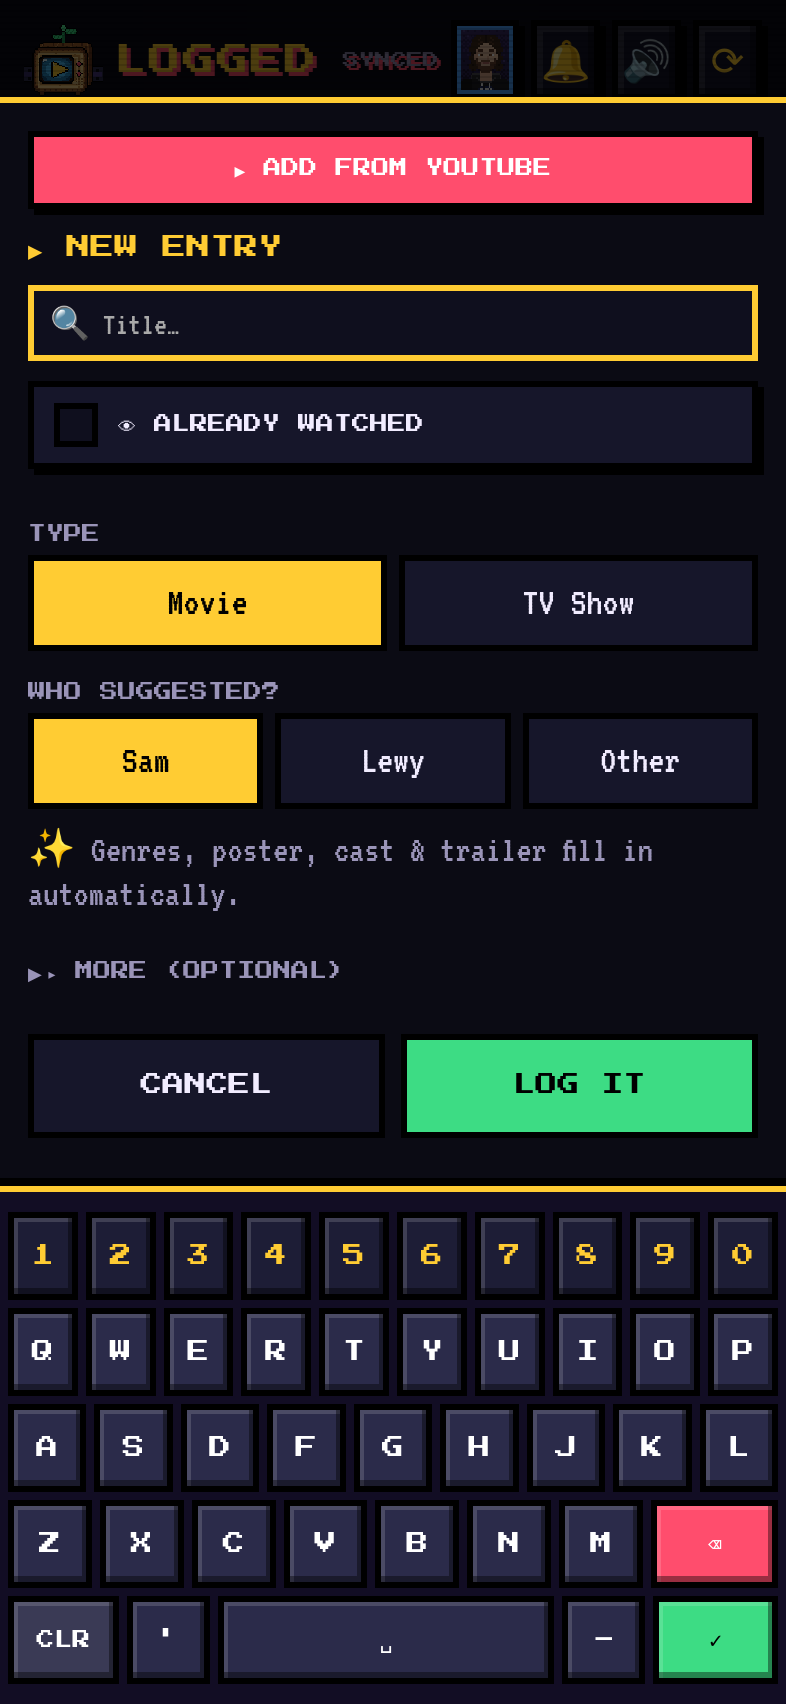
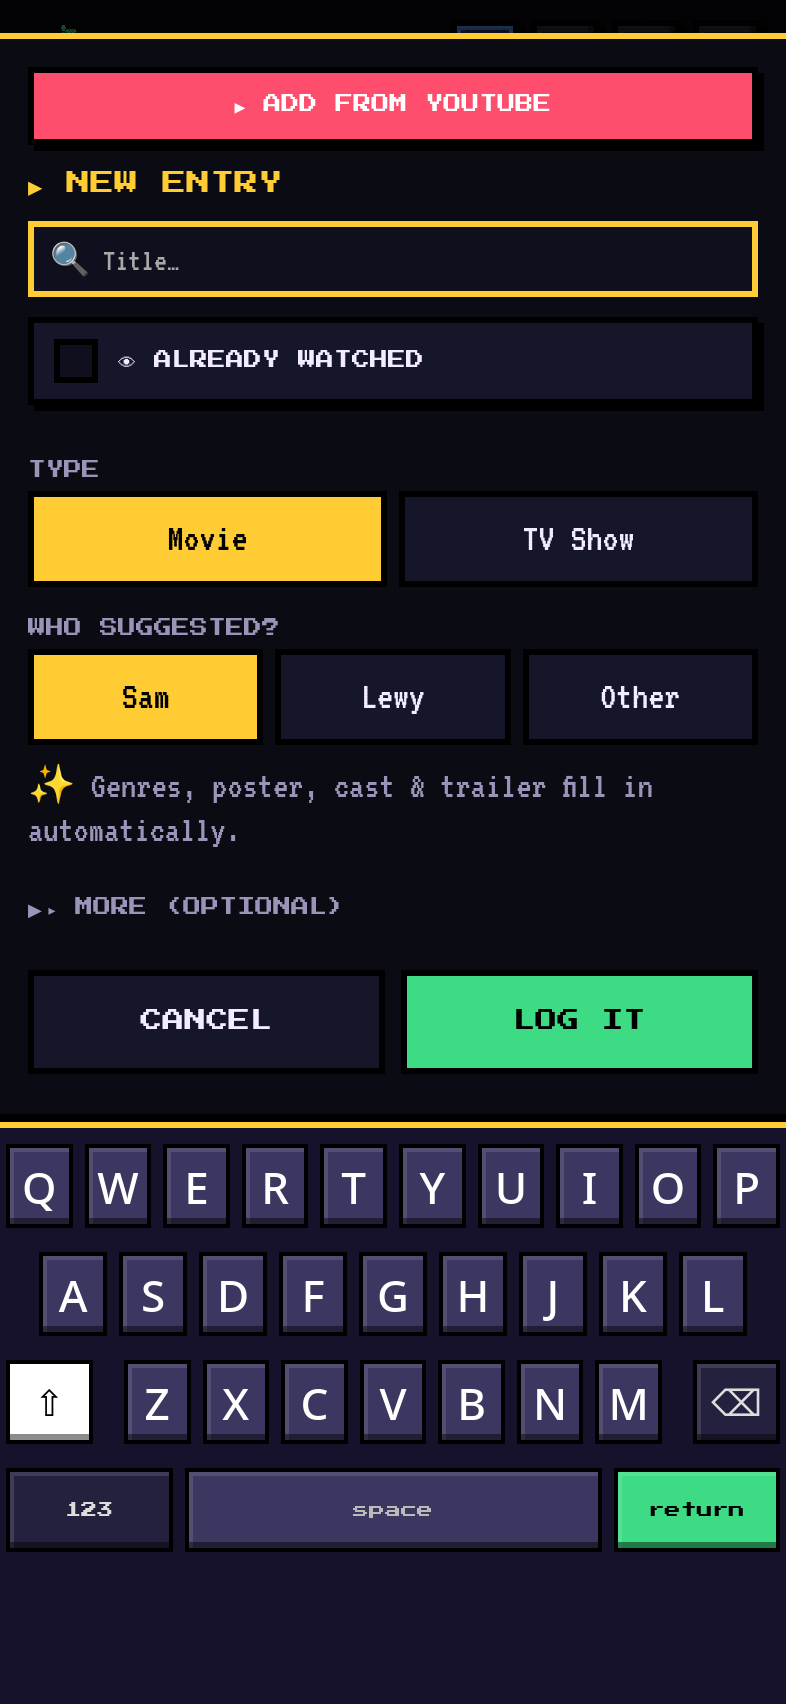
r72: 8-bit keyboard with iPhone size/layout: shift/caps, 123/#+=, popups, hold delete, movable caret, clear button

diff --git a/app/index.html b/app/index.html
@@ -1567,6 +1567,25 @@ nav#nav.nav58 #navLogM.gold58:not(.on){background:#1d1a30;color:#ffcc33;box-shad
 #lfc70 .lfc{position:absolute;left:10px;right:10px;top:12%;background:#15132a;border:4px solid #d51007;box-shadow:4px 4px 0 #000;padding:14px}
 #lfc70 h3{font:11px var(--pix);color:#fff;margin:0 0 8px}#lfc70 p{font-size:12px;color:var(--dim,#aaa);margin:0 0 10px}
 #lfc70 .lfb{display:flex;gap:8px;margin-top:10px}#lfc70 .lfb .ui-btn{flex:1;min-height:44px}#lfc70 .lfe{color:#ff6b6b;font:7px var(--pix);margin:8px 0 0}
+/* R72: iPhone keyboard metrics (iPhone 13 portrait ≈ 291px incl. bottom area): 42px keys, 12px row gap, 6px key gap, 3px side inset */
+#kb.kb72{padding:8px 3px max(76px,calc(42px + env(safe-area-inset-bottom)));background:#16122b;border-top:3px solid var(--gold);box-shadow:0 -4px 0 #000;box-sizing:border-box;user-select:none;-webkit-user-select:none;touch-action:manipulation}
+#kb.kb72 .kr72{display:flex;gap:6px;margin:0 auto 12px;max-width:560px;justify-content:center}
+#kb.kb72 .kr72.bot{margin-bottom:0}
+#kb.kb72 .kr72.in{padding:0 calc((100% - 54px) / 20)}
+#kb.kb72 button{flex:0 0 calc((100% - 54px) / 10);height:42px;min-width:0;padding:0;margin:0;background:#3b3760;color:#fff;border:2px solid #000;border-radius:0;box-shadow:inset 0 -3px 0 rgba(0,0,0,.45),inset 2px 2px 0 rgba(255,255,255,.12);font:500 22px -apple-system,system-ui,sans-serif;display:flex;align-items:center;justify-content:center}
+#kb.kb72 .kr72.in button{flex-basis:calc((100% - 48px) / 9)}
+#kb.kb72 .fn{background:#24213f;font:8px var(--pix);color:#ddd}
+#kb.kb72 .sh,#kb.kb72 .bs{flex:0 0 calc((100% - 54px) / 10 * 1.3);font-size:18px;font-family:-apple-system,system-ui,sans-serif}
+#kb.kb72 .kr72:not(.sym) .sh{margin-right:auto}#kb.kb72 .kr72:not(.sym) .bs{margin-left:auto}
+#kb.kb72 .kr72.sym button.ch{flex-basis:calc((100% - 54px) / 10 * 1.35)}
+#kb.kb72 .sh.on,#kb.kb72 .sh.caps{background:#fff;color:#000}#kb.kb72 .sh.caps{box-shadow:inset 0 -4px 0 var(--gold)}
+#kb.kb72 .pg{flex:0 0 calc((100% - 54px) / 10 * 2.5)}#kb.kb72 .ret{flex:0 0 calc((100% - 54px) / 10 * 2.5);background:var(--grn);color:#000}
+#kb.kb72 .spc{flex:1 1 auto;font:8px var(--pix);color:#bbb}
+#kb.kb72 button.dn{background:var(--gold);color:#000;box-shadow:none;transform:translateY(1px)}
+#kb.kb72 .pop72{display:none;position:absolute;transform:translate(-50%,-100%);height:56px;margin-top:-4px;align-items:center;justify-content:center;background:#fff;color:#000;border:3px solid #000;box-shadow:3px 3px 0 #000;font:500 32px -apple-system,system-ui,sans-serif;pointer-events:none;z-index:2}
+.car72{position:fixed;z-index:2960;width:2px;background:#4da3ff;display:none;pointer-events:none;animation:car72 1s steps(1) infinite}
+@keyframes car72{50%{opacity:0}}
+.clr72{position:fixed;z-index:2960;width:26px;height:26px;display:none;align-items:center;justify-content:center;background:#555;color:#fff;border:2px solid #000;border-radius:50%;font:12px system-ui;padding:0}
 </style></head><body>
 <div id="splash" aria-label="Logged"></div>
 <header><div class="hin">
@@ -6673,6 +6692,72 @@ setInterval(function () { try { var k = document.getElementById('kb'); if (!k ||
     if (t.dataset.lfc) sheet(); else if (t.dataset.lfx) setU(''); else if (t.dataset.lfcx) close();
     else { var v = String($('lfm70u').value || '').trim(); if (!/^[\w.\-]{2,40}$/.test(v)) { $('lfe70').textContent = 'Type your Last.fm username'; return; } $('lfe70').textContent = 'Saving…'; setU(v, close); } }, true);
   document.addEventListener('keydown', function (e) { if (e.target && e.target.id === 'lfm70u' && e.key === 'Enter') { var b = document.querySelector('[data-lfsave]'); b && b.click(); } }, true);
+})();
+
+/* ===== R72: 8-bit keyboard rebuilt to iPhone size/layout/feel: QWERTY 10/9/7 + shift/delete, 123 · space · return,
+   123 and #+= symbol pages, shift + caps lock (double-tap), sentence auto-capitalise, key popups, hold-to-repeat delete,
+   tap tick + haptic, a real caret you can move by tapping the text, edits at the caret, and a ✕ clear button in the field. ===== */
+(function () {
+  var old = $('kb'); if (!old) return; var K = old.cloneNode(false); old.parentNode.replaceChild(K, old); /* drop the old key listeners */
+  K.classList.add('kb72');
+  var L = { abc: ['qwertyuiop', 'asdfghjkl', 'zxcvbnm'], n: ['1234567890', '-/:;()$&@"', '.,?!\''], s: ['[]{}#%^*+=', '_\\|~<>€£¥•', '.,?!\''] };
+  var S = { page: 'abc', shift: false, caps: false, lastShift: 0 };
+  var key = function (k, lab, cls) { return '<button type="button" data-k72="' + esc(k) + '" class="' + (cls || '') + '" data-nosfx="1">' + lab + '</button>'; };
+  function draw() { var P = L[S.page], up = S.shift || S.caps, h = '';
+    h += '<div class="kr72">' + P[0].split('').map(function (c) { var d = S.page === 'abc' && up ? c.toUpperCase() : c; return key(d, esc(d), 'ch'); }).join('') + '</div>';
+    h += '<div class="kr72' + (S.page === 'abc' ? ' in' : '') + '">' + P[1].split('').map(function (c) { var d = S.page === 'abc' && up ? c.toUpperCase() : c; return key(d, esc(d), 'ch'); }).join('') + '</div>';
+    var left = S.page === 'abc' ? key('SHIFT', S.caps ? '⇪' : '⇧', 'fn sh' + (S.caps ? ' caps' : S.shift ? ' on' : '')) : key(S.page === 'n' ? 'PG:s' : 'PG:n', S.page === 'n' ? '#+=' : '123', 'fn sh');
+    h += '<div class="kr72' + (S.page === 'abc' ? '' : ' sym') + '">' + left + P[2].split('').map(function (c) { var d = S.page === 'abc' && up ? c.toUpperCase() : c; return key(d, esc(d), 'ch'); }).join('') + key('BS', '⌫', 'fn bs') + '</div>';
+    h += '<div class="kr72 bot">' + key(S.page === 'abc' ? 'PG:n' : 'PG:abc', S.page === 'abc' ? '123' : 'ABC', 'fn pg') + key(' ', 'space', 'spc') + key('OK', 'return', 'fn ret') + '</div><div class="pop72" aria-hidden="true"></div>';
+    K.innerHTML = h; }
+  /* caret + clear overlays */
+  var C = document.createElement('i'); C.className = 'car72'; document.body.appendChild(C);
+  var X = document.createElement('button'); X.type = 'button'; X.className = 'clr72 qx'; X.setAttribute('aria-label', 'Clear text'); X.textContent = '✕'; X.dataset.nosfx = '1'; document.body.appendChild(X);
+  var cv = document.createElement('canvas').getContext('2d');
+  var tw = function (el, s) { var cs = getComputedStyle(el); cv.font = cs.fontStyle + ' ' + cs.fontWeight + ' ' + cs.fontSize + ' ' + cs.fontFamily; return cv.measureText(s).width + (parseFloat(cs.letterSpacing) || 0) * s.length; };
+  var pos = function (el) { var v = el.value || ''; if (el.__p72 == null || el.__p72 > v.length) el.__p72 = v.length; return el.__p72; };
+  function paintCaret() { var el = KB.target; if (!el || !K.classList.contains('on') || !el.isConnected) { C.style.display = X.style.display = 'none'; return; }
+    var r = el.getBoundingClientRect(), cs = getComputedStyle(el); if (!r.width) { C.style.display = X.style.display = 'none'; return; }
+    var padL = parseFloat(cs.paddingLeft) + parseFloat(cs.borderLeftWidth), padR = parseFloat(cs.paddingRight) + parseFloat(cs.borderRightWidth) + 30, inner = r.width - padL - padR;
+    var x = tw(el, (el.value || '').slice(0, pos(el))); if (x - el.scrollLeft > inner) el.scrollLeft = x - inner + 2; else if (x < el.scrollLeft) el.scrollLeft = Math.max(0, x - 4);
+    var fs = parseFloat(cs.fontSize) || 16, ta = cs.textAlign === 'center' ? (inner - tw(el, el.value || '')) / 2 : 0;
+    C.style.display = 'block'; C.style.left = Math.round(r.left + padL + ta + x - el.scrollLeft) + 'px'; C.style.top = Math.round(r.top + (r.height - fs * 1.25) / 2) + 'px'; C.style.height = Math.round(fs * 1.25) + 'px';
+    var own = el.id === 'q' || (el.parentNode && el.parentNode.querySelector('.qx:not(.clr72)'));
+    X.style.display = el.value && !own ? 'flex' : 'none'; X.style.left = Math.round(r.right - 38) + 'px'; X.style.top = Math.round(r.top + r.height / 2 - 13) + 'px'; }
+  setInterval(paintCaret, 250); window.addEventListener('resize', paintCaret); document.addEventListener('scroll', paintCaret, true);
+  var fire = function (el) { if (el.oninput) el.oninput(); else el.dispatchEvent(new Event('input', { bubbles: true })); };
+  var autoCap = function (el) { if (S.caps || S.page !== 'abc') return; var b = (el.value || '').slice(0, pos(el)); var on = !b.length || /[.!?]\s+$/.test(b); if (on !== S.shift) { S.shift = on; draw(); } };
+  function ins(el, ch) { var v = el.value || '', p = pos(el); if (v.length >= 120) return; el.value = v.slice(0, p) + ch + v.slice(p); el.__p72 = p + ch.length; fire(el); }
+  function del(el) { var v = el.value || '', p = pos(el); if (!p) return false; el.value = v.slice(0, p - 1) + v.slice(p); el.__p72 = p - 1; fire(el); return true; }
+  var tick = function (hi) { try { if (!muted && typeof tone === 'function') tone(hi ? 1400 : 900, .018, 'square', .012); } catch (e) {} try { navigator.vibrate && navigator.vibrate(6); } catch (e) {} };
+  /* kbKey: physical keys + any caller still use it; OK keeps the existing chain (change/Enter/close) */
+  var _kk = kbKey; kbKey = function (k, raw) { var el = KB.target; if (!el) return; if (k === 'OK') return _kk.apply(this, arguments);
+    if (k === 'BS') del(el); else if (k === 'CLR') { el.value = ''; el.__p72 = 0; fire(el); } else ins(el, raw ? k : k); autoCap(el); paintCaret(); };
+  var _ko = kbOpen; kbOpen = function (el) { var r = _ko.apply(this, arguments); el.__p72 = (el.value || '').length; S.page = 'abc'; S.caps = false; S.shift = false; draw(); autoCap(el);
+    document.documentElement.style.setProperty('--kbh', K.offsetHeight + 'px'); paintCaret(); return r; };
+  var _kc = kbClose; kbClose = function () { var r = _kc.apply(this, arguments); paintCaret(); return r; };
+  /* keys: popup on touch-down, letters commit on release (like iOS); delete repeats while held */
+  var rep = 0, rept = 0, down = null;
+  var pop = function (b) { var P = K.querySelector('.pop72'); if (!P) return; if (!b) { P.style.display = 'none'; return; } var r = b.getBoundingClientRect(), kr = K.getBoundingClientRect(); P.textContent = b.textContent; P.style.display = 'flex'; P.style.left = (r.left - kr.left + r.width / 2) + 'px'; P.style.top = (r.top - kr.top) + 'px'; P.style.width = (r.width + 20) + 'px'; };
+  var stopRep = function () { clearTimeout(rept); clearInterval(rep); rep = rept = 0; };
+  K.addEventListener('pointerdown', function (e) { e.preventDefault(); var b = e.target.closest('[data-k72]'), el = KB.target; if (!b || !el) return; var k = b.dataset.k72; b.classList.add('dn'); down = b;
+    if (b.classList.contains('ch') || k === ' ') { if (k !== ' ') pop(b); return; }
+    tick(true);
+    if (k === 'BS') { del(el); autoCap(el); paintCaret(); rept = setTimeout(function () { rep = setInterval(function () { if (!KB.target || !del(KB.target)) stopRep(); paintCaret(); }, 70); }, 450); return; }
+    if (k === 'SHIFT') { var t = Date.now(); if (t - S.lastShift < 320 && !S.caps) { S.caps = true; S.shift = true; } else if (S.caps) { S.caps = false; S.shift = false; } else S.shift = !S.shift; S.lastShift = t; draw(); return; }
+    if (k.indexOf('PG:') === 0) { S.page = k.slice(3); draw(); return; }
+    if (k === 'OK') { kbKey('OK'); } });
+  var up = function (e) { stopRep(); pop(null); var b = down; down = null; if (!b) return; b.classList.remove('dn'); var el = KB.target; if (!el || !b.isConnected) return; var k = b.dataset.k72;
+    if (e && e.type === 'pointercancel') return;
+    if (b.classList.contains('ch') || k === ' ') { tick(); ins(el, k); if (S.shift && !S.caps && S.page === 'abc') { S.shift = false; draw(); }
+      if (k === ' ' && S.page !== 'abc') { S.page = 'abc'; draw(); } if (k === '\'' && S.page !== 'abc') { S.page = 'abc'; draw(); } autoCap(el); paintCaret(); } };
+  window.addEventListener('pointerup', up, true); window.addEventListener('pointercancel', up, true);
+  /* tap in the text to move the caret */
+  document.addEventListener('pointerdown', function (e) { var el = KB.target; if (!el || e.target !== el) return; var r = el.getBoundingClientRect(), cs = getComputedStyle(el), v = el.value || '';
+    var x = e.clientX - r.left - parseFloat(cs.paddingLeft) - parseFloat(cs.borderLeftWidth) + el.scrollLeft, best = v.length, bd = 1e9;
+    for (var i = 0; i <= v.length; i++) { var d = Math.abs(tw(el, v.slice(0, i)) - x); if (d < bd) { bd = d; best = i; } } el.__p72 = best; autoCap(el); paintCaret(); }, true);
+  X.addEventListener('pointerdown', function (e) { e.preventDefault(); e.stopPropagation(); var el = KB.target; if (!el) return; el.value = ''; el.__p72 = 0; fire(el); tick(true); autoCap(el); paintCaret(); });
+  draw();
 })();
 
 </script></body></html>

diff --git a/tests/add67.steps.js b/tests/add67.steps.js
@@ -7,7 +7,7 @@ await p.tap('[data-t67]').catch(e => out.e2 = e.message.slice(0, 80)); await p.w
 out.st = await p.evaluate(() => { const a = document.getElementById('add'), t = document.getElementById('aTitle'), r = t.getBoundingClientRect(), kb = document.getElementById('kb'); return { open: a.classList.contains('open'), vis: getComputedStyle(a).visibility + '/' + getComputedStyle(a).display + '/' + getComputedStyle(a).opacity, t: [r.y, r.height], at: (document.elementFromPoint(r.x + 10, r.y + r.height / 2) || {}).id, act: document.activeElement && document.activeElement.id, kb: kb && kb.classList.contains('on'), kbR: kb && kb.getBoundingClientRect().y, kbz: kb && getComputedStyle(kb).zIndex, az: getComputedStyle(a).zIndex }; });
 out.kbTop = await p.evaluate(() => { const k = document.getElementById('kb'), r = k.getBoundingClientRect(), e = document.elementFromPoint(r.x + r.width / 2, r.y + 20); return k.contains(e); });
 await p.screenshot({ path: '/workspace/logged-site/shots/r67_logit_' + (await p.evaluate(() => me())) + '.png' });
-for (const ch of ['D', 'U', 'N']) { const bx = await p.evaluate(ch => { const b = [...document.querySelectorAll('#kb button')].find(b => b.innerText.trim() === ch); const r = b.getBoundingClientRect(); return [r.x + r.width / 2, r.y + r.height / 2]; }, ch); await p.touchscreen.tap(bx[0], bx[1]); await p.waitForTimeout(80); }
+for (const ch of ['D', 'U', 'N']) { const bx = await p.evaluate(ch => { const b = [...document.querySelectorAll('#kb button')].find(b => b.innerText.trim().toUpperCase() === ch); const r = b.getBoundingClientRect(); return [r.x + r.width / 2, r.y + r.height / 2]; }, ch); await p.touchscreen.tap(bx[0], bx[1]); await p.waitForTimeout(80); }
 out.typed = await p.evaluate(() => document.getElementById('aTitle').value); out.titleVis = await p.evaluate(() => { const t = document.getElementById('aTitle').getBoundingClientRect(), k = document.getElementById('kb').getBoundingClientRect(); return t.bottom <= k.top && t.top >= 0; });
 await p.evaluate(() => { document.getElementById('add').classList.remove('open'); try { kbClose(); } catch (e) {} });
 /* other entry points: + menu NEW ENTRY and nav add */

diff --git a/app/sw.js b/app/sw.js
@@ -1,5 +1,5 @@
 /* Logged service worker: app shell network-first (so git push updates land), static + posters cache-first. Never caches the API. */
-var V = 'logged-1792072476', SHELL = ['./', 'index.html', 'manifest.json', 'icon-192.png', 'icon-512.png', 'apple-touch-icon.png'];
+var V = 'logged-1792073640', SHELL = ['./', 'index.html', 'manifest.json', 'icon-192.png', 'icon-512.png', 'apple-touch-icon.png'];
 self.addEventListener('install', function (e) { self.skipWaiting(); e.waitUntil(caches.open(V).then(function (c) { return c.addAll(SHELL).catch(function () {}); })); });
 self.addEventListener('activate', function (e) { e.waitUntil(caches.keys().then(function (ks) { return Promise.all(ks.filter(function (k) { return k !== V && k.indexOf('logged-') === 0; }).map(function (k) { return caches.delete(k); })); }).then(function () { return self.clients.claim(); })); });
 self.addEventListener('fetch', function (e) {
